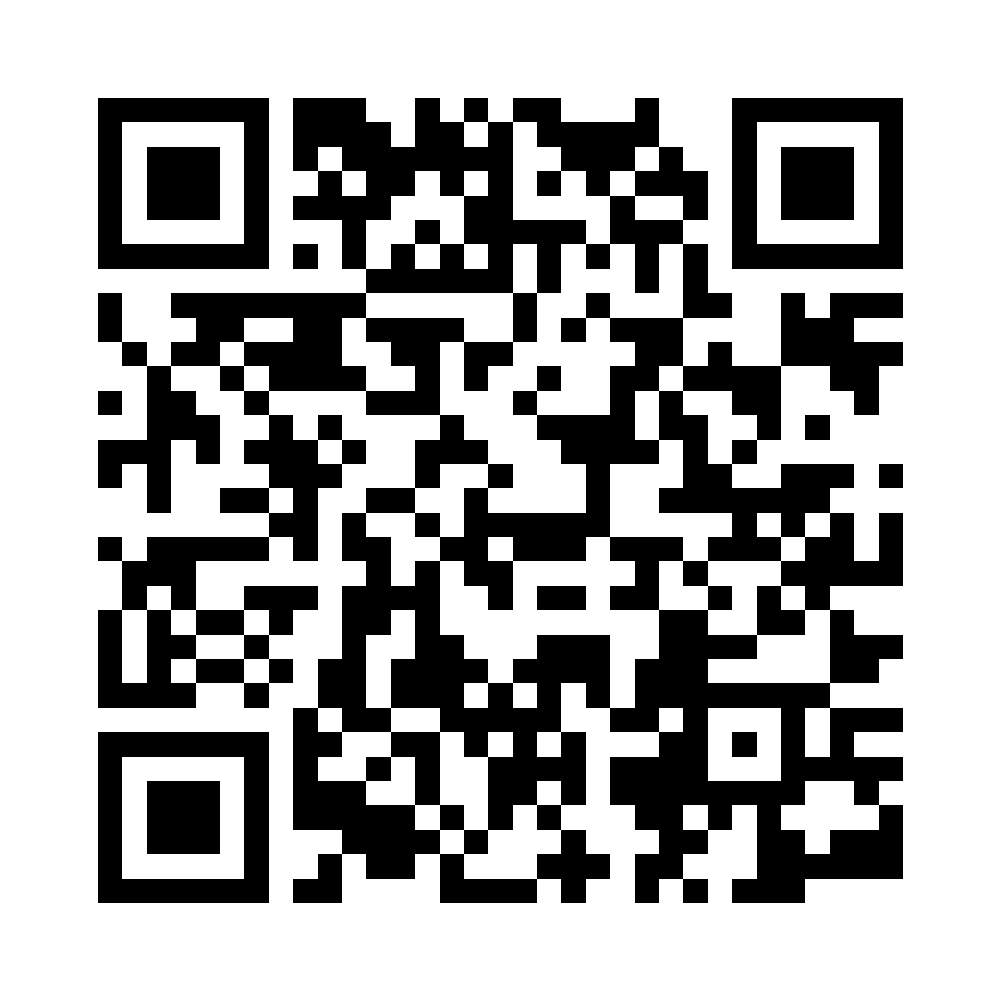
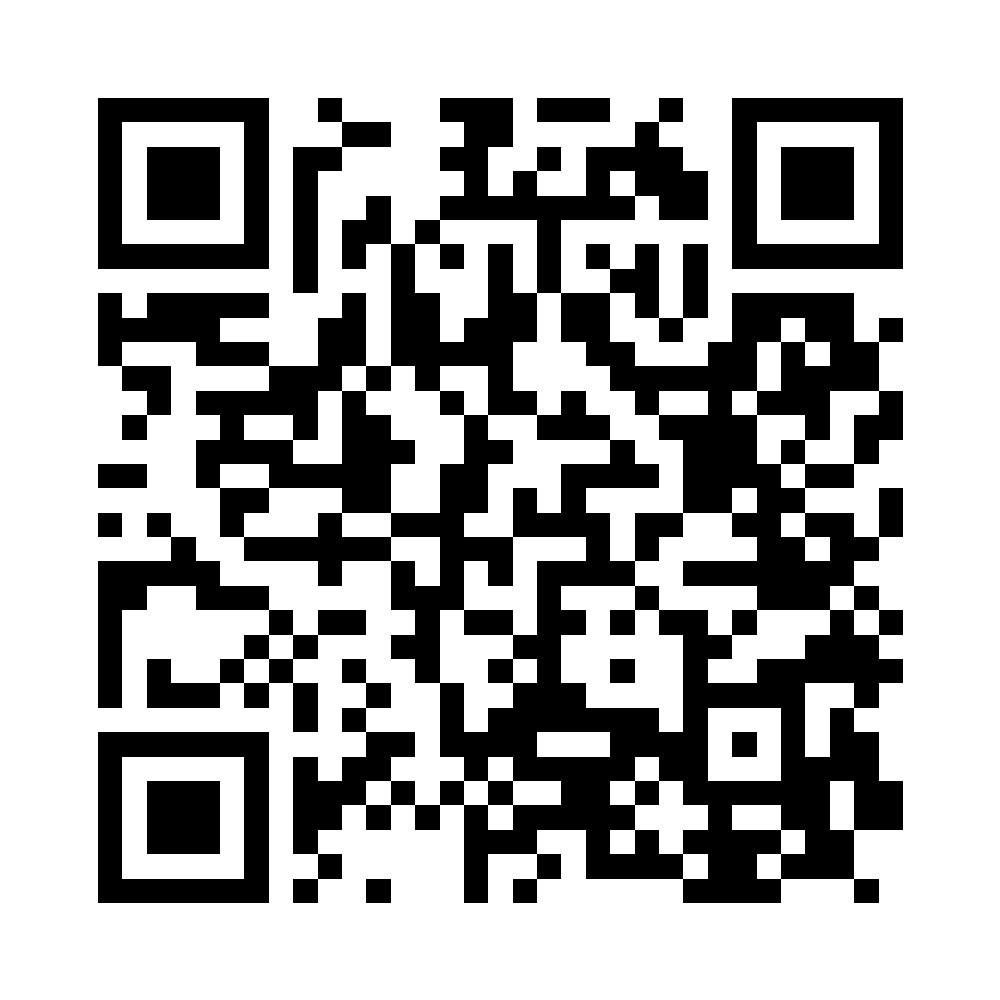
Sistema QR dinámico definitivo

Changed region(s): [[0.093, 0.093, 0.93, 0.93], [0.124, 0.682, 0.155, 0.713]]

diff --git a/generar-qrs.js b/generar-qrs.js
@@ -2,31 +2,99 @@ const QRCode = require("qrcode");
 const fs = require("fs");
 const path = require("path");
 
-const API = "https://script.google.com/macros/s/AKfycbyrEf8dEH4CJNdJWmvHkOhkEIt_XSsGEV3_d8q4LGmPWxji2MTq_up6tljZ1KbYX_97/exec";
+const usuario = "dracoci27";
+const repositorio = "QR-Dinamicos";
 
-const carpetaSalida = path.join(__dirname, "QR-PNG");
+const API =
+  "https://script.google.com/macros/s/AKfycbyrEf8dEH4CJNdJWmvHkOhkEIt_XSsGEV3_d8q4LGmPWxji2MTq_up6tljZ1KbYX_97/exec";
 
-if (!fs.existsSync(carpetaSalida)) {
-    fs.mkdirSync(carpetaSalida);
+const carpetaQR = path.join(__dirname, "QR-PNG");
+
+if (!fs.existsSync(carpetaQR)) {
+  fs.mkdirSync(carpetaQR);
 }
 
-async function prueba() {
+async function generar() {
 
-    const id = "003";
+  for (let numero = 1; numero <= 100; numero++) {
 
-    const url = API + "?id=" + id;
+    const id = String(numero).padStart(3, "0");
 
-    await QRCode.toFile(
-        path.join(carpetaSalida, "PRUEBA-003.png"),
-        url,
-        {
-            width: 1000,
-            margin: 4
-        }
+    // Crear carpeta si no existe
+    const carpetaID = path.join(__dirname, id);
+
+    if (!fs.existsSync(carpetaID)) {
+      fs.mkdirSync(carpetaID);
+    }
+
+    // Crear index.html
+    const html = `<!DOCTYPE html>
+<html lang="es">
+<head>
+  <meta charset="UTF-8">
+  <meta name="viewport" content="width=device-width, initial-scale=1.0">
+  <title>Redirigiendo...</title>
+</head>
+<body>
+
+<p>Redirigiendo...</p>
+
+<script>
+const API = "${API}";
+const ID = "${id}";
+
+window.qrCallback = function(datos) {
+
+  if (datos.destino) {
+    window.location.replace(datos.destino);
+  } else {
+    document.body.innerHTML =
+      "<h2>Este QR todavía no está configurado.</h2>";
+  }
+
+};
+
+const script = document.createElement("script");
+
+script.src =
+  API +
+  "?id=" +
+  ID +
+  "&callback=qrCallback&t=" +
+  Date.now();
+
+document.head.appendChild(script);
+</script>
+
+</body>
+</html>`;
+
+    fs.writeFileSync(
+      path.join(carpetaID, "index.html"),
+      html,
+      "utf8"
     );
 
-    console.log("QR de prueba creado:");
-    console.log(url);
+    // URL que quedará IMPRESA en el QR
+    const url =
+      `https://${usuario}.github.io/${repositorio}/${id}/index.html`;
+
+    await QRCode.toFile(
+      path.join(carpetaQR, `${id}.png`),
+      url,
+      {
+        width: 1000,
+        margin: 4
+      }
+    );
+
+    console.log(`✅ ${id}`);
+  }
+
+  console.log("");
+  console.log("================================");
+  console.log("✅ 100 QR DEFINITIVOS CREADOS");
+  console.log("================================");
 }
 
-prueba();
+generar();
